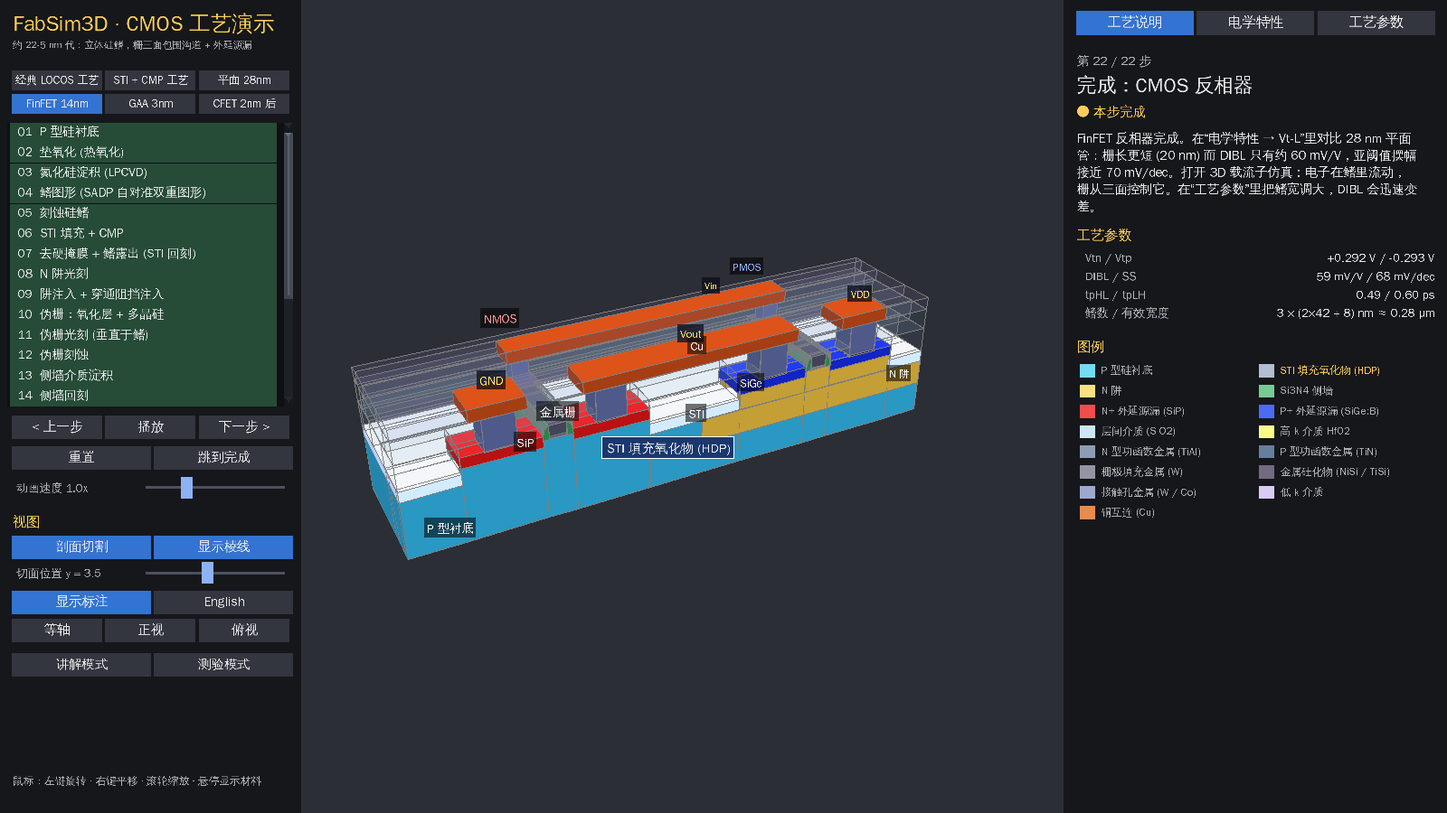
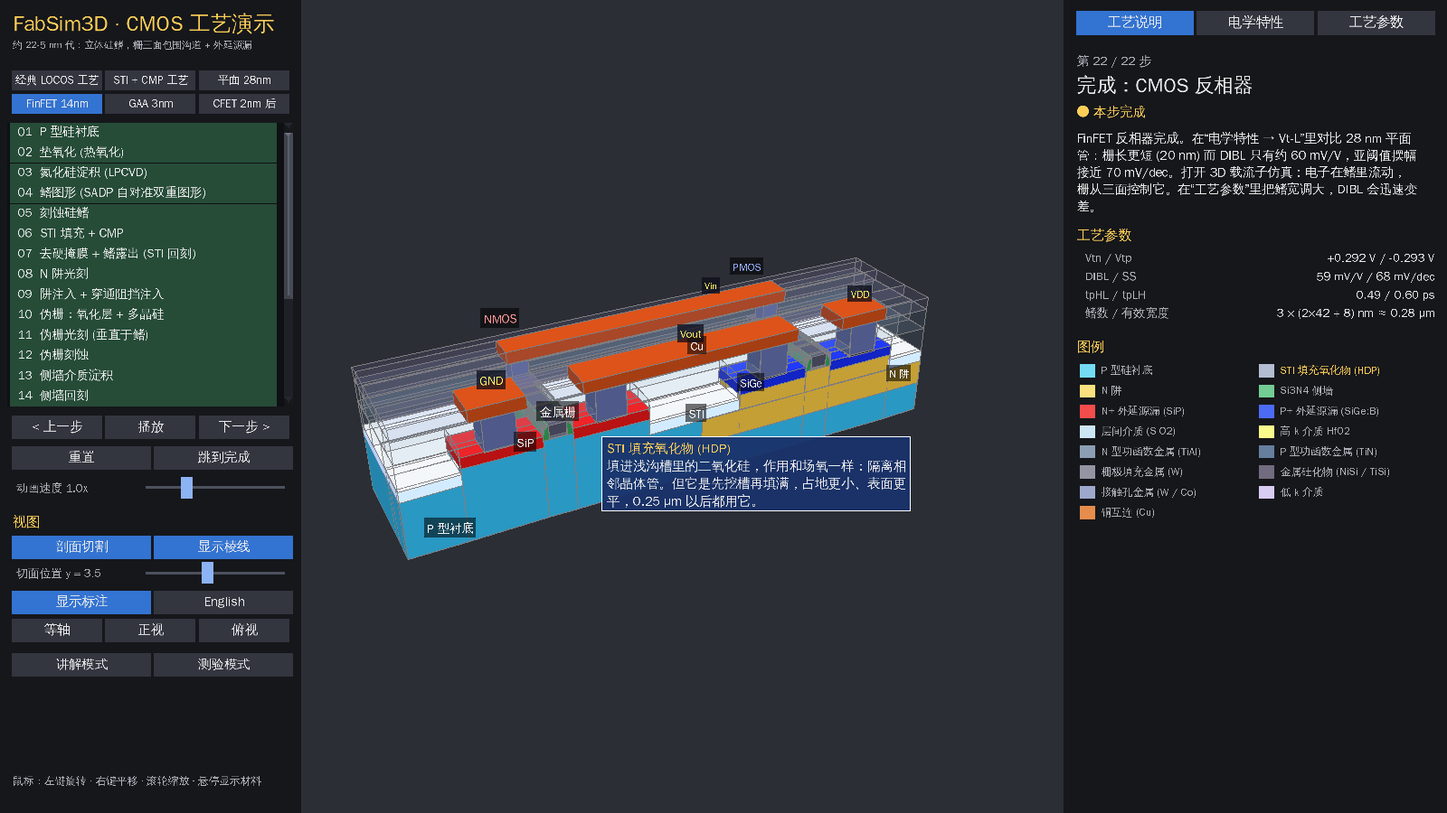
Explain what every material is for in the hover tooltip
The tooltip now shows the material name as a yellow title, followed by a
short beginner-level note on why that layer is in the stack (isolation,
gate insulator, source/drain, wiring...).  The notes live next to the
colours in materials.py, so names, colours and roles stay in one table.
The tooltip flips above the mouse near the bottom edge so longer notes
are not cut off.

Claude-Session: https://claude.ai/code/session_01YUC5rHJGE8Rs6KjAxh5pu7

Changed region(s): [[0.4062, 0.5289, 0.6562, 0.6533]]

diff --git a/fabsim3d/materials.py b/fabsim3d/materials.py
@@ -1,64 +1,217 @@
-"""Material colours, names and draw priority."""
+"""材料表：每种材料的颜色、中英文名字、绘制优先级，以及“它是干什么用的”。
+
+Material colours, names, draw priority and a one-line "what is it for".
+
+整个程序里凡是要画一块材料（衬底、氧化层、金属……），都先到这里查它的颜色；
+鼠标悬停提示框和右侧图例里显示的名字、用途说明也来自这里。
+想改某种材料的颜色或说明，只改这一个文件就行。
+"""
+# dataclass 是 Python 自带的一个小工具：写一个类，只列出“有哪些字段”，
+# Python 会自动帮我们生成创建对象的代码，省得手写一大堆赋值。
 from dataclasses import dataclass
 
 
+# frozen=True 表示对象创建后不能再修改，材料表是固定不变的，这样更安全。
 @dataclass(frozen=True)
 class Material:
-    key: str
-    color: tuple          # rgba 0..1
-    zh: str
-    en: str
-    priority: int = 0     # depth offset for coplanar faces (higher wins)
-    legend: bool = True
+    key: str              # 程序内部用的短名字，例如 "p_sub"，别的代码靠它查材料
+    color: tuple          # 颜色 (红, 绿, 蓝, 不透明度)，每个数都在 0..1 之间；不透明度 < 1 就是半透明
+    zh: str               # 中文名
+    en: str               # 英文名
+    priority: int = 0     # 两块材料的表面正好重合时谁的颜色露出来：数字大的赢（rgba 0..1 / depth offset）
+    legend: bool = True   # 是否显示在右侧“图例”里（仿真用的反型层不显示）
+    role_zh: str = ""     # 中文：这种材料在芯片里起什么作用（悬停提示框里显示）
+    role_en: str = ""     # English: what the material is for (shown in the hover tooltip)
 
 
+# 下面这张大表就是全部材料。每一行的写法：
+#   Material(内部名, 颜色, 中文名, 英文名, 优先级, [是否进图例,] role_zh=用途, role_en=用途)
+# 排列顺序大致就是工艺里出现的先后顺序：先是硅片本身，然后隔离、栅极、源漏，最后是金属导线。
 _M = [
-    Material("p_sub", (0.45, 0.86, 0.95, 1), "P 型硅衬底", "p-type Si substrate", 0),
-    Material("n_implant", (0.95, 0.80, 0.35, 1), "磷注入层(未推进)", "P implant (as-implanted)", 2),
-    Material("n_well", (0.98, 0.88, 0.50, 1), "N 阱", "N-well", 1),
-    Material("pad_ox", (0.80, 0.80, 0.82, 1), "垫氧化层 SiO2", "Pad oxide SiO2", 3),
-    Material("nitride", (0.30, 0.70, 0.40, 1), "氮化硅 Si3N4", "Silicon nitride Si3N4", 3),
-    Material("resist", (0.45, 0.10, 0.45, 1), "光刻胶", "Photoresist", 4),
-    Material("resist_exp", (0.85, 0.55, 0.90, 1), "已曝光光刻胶", "Exposed resist", 4),
-    Material("fox", (0.62, 0.62, 0.66, 1), "场氧化层 (LOCOS)", "Field oxide (LOCOS)", 4),
-    Material("sti_ox", (0.70, 0.74, 0.82, 1), "STI 填充氧化物 (HDP)", "STI fill oxide (HDP)", 4),
-    Material("liner_ox", (0.88, 0.88, 0.92, 1), "衬垫氧化层", "Liner oxide", 5),
-    Material("gate_ox", (0.92, 0.92, 0.95, 1), "栅氧化层", "Gate oxide", 4),
-    Material("poly", (0.80, 0.45, 0.35, 1), "多晶硅", "Polysilicon", 5),
-    Material("poly_n", (0.85, 0.30, 0.30, 1), "N+ 多晶硅栅", "n+ poly gate", 5),
-    Material("poly_p", (0.40, 0.45, 0.90, 1), "P+ 多晶硅栅", "p+ poly gate", 5),
-    Material("n_ldd", (0.98, 0.55, 0.55, 1), "N- LDD 轻掺杂漏", "n- LDD extension", 2),
-    Material("p_ldd", (0.55, 0.65, 1.00, 1), "P- LDD 轻掺杂漏", "p- LDD extension", 2),
-    Material("spacer", (0.45, 0.80, 0.58, 1), "Si3N4 侧墙", "Si3N4 sidewall spacer", 6),
-    Material("n_plus", (0.92, 0.20, 0.20, 1), "N+ 源/漏", "n+ source/drain", 3),
-    Material("p_plus", (0.25, 0.35, 0.95, 1), "P+ 源/漏", "p+ source/drain", 3),
-    Material("ild", (0.80, 0.90, 0.95, 0.30), "层间介质 (BPSG)", "Inter-layer dielectric (BPSG)", 6),
-    Material("metal", (0.70, 0.72, 0.78, 1), "铝金属层", "Aluminium metal", 7),
-    # advanced nodes (HKMG / FinFET / GAA / CFET)
-    Material("poly_dummy", (0.80, 0.55, 0.45, 1), "伪栅多晶硅 (之后去除)", "Dummy poly gate (removed later)", 5),
-    Material("ild_ox", (0.80, 0.90, 0.95, 0.30), "层间介质 (SiO2)", "Inter-layer dielectric (SiO2)", 6),
-    Material("nickel", (0.78, 0.80, 0.82, 1), "镍 (Ni)", "Nickel (Ni)", 6),
-    Material("si_fin", (0.55, 0.90, 0.98, 1), "硅鳍 / 纳米片 (沟道)", "Si fin / nanosheet (channel)", 1),
-    Material("sige", (0.95, 0.62, 0.78, 1), "SiGe 牺牲层", "SiGe sacrificial layer", 2),
-    Material("sige_hi", (0.80, 0.40, 0.65, 1), "高 Ge SiGe (中间隔离牺牲层)", "High-Ge SiGe (isolation placeholder)", 2),
-    Material("mdi_ox", (0.62, 0.86, 0.70, 1), "中间介质隔离 (MDI)", "Middle dielectric isolation (MDI)", 3),
-    Material("hfo2", (0.98, 0.98, 0.55, 1), "高 k 介质 HfO2", "High-k HfO2", 7),
-    Material("wf_n", (0.55, 0.62, 0.70, 1), "N 型功函数金属 (TiAl)", "n work-function metal (TiAl)", 7),
-    Material("wf_p", (0.40, 0.50, 0.62, 1), "P 型功函数金属 (TiN)", "p work-function metal (TiN)", 7),
-    Material("gate_metal", (0.58, 0.58, 0.64, 1), "栅极填充金属 (W)", "Gate fill metal (W)", 6),
-    Material("n_epi", (0.95, 0.30, 0.30, 1), "N+ 外延源漏 (SiP)", "n+ epitaxial S/D (SiP)", 3),
-    Material("p_epi", (0.30, 0.42, 0.95, 1), "P+ 外延源漏 (SiGe:B)", "p+ epitaxial S/D (SiGe:B)", 3),
-    Material("silicide", (0.45, 0.42, 0.50, 1), "金属硅化物 (NiSi / TiSi)", "Silicide (NiSi / TiSi)", 5),
-    Material("plug", (0.62, 0.66, 0.80, 1), "接触孔金属 (W / Co)", "Contact metal (W / Co)", 7),
-    Material("lowk", (0.85, 0.80, 0.95, 0.30), "低 k 介质", "Low-k dielectric", 6),
-    Material("copper", (0.90, 0.55, 0.30, 1), "铜互连 (Cu)", "Copper wiring (Cu)", 8),
-    Material("bs_metal", (0.90, 0.70, 0.30, 1), "背面供电金属", "Backside power metal", 8),
-    Material("channel_n", (0.3, 1.0, 1.0, 0.0), "电子反型层", "Electron inversion layer", 9, False),
-    Material("channel_p", (1.0, 0.6, 0.2, 0.0), "空穴反型层", "Hole inversion layer", 9, False),
+    # ---------------- 地基：硅片和阱 ----------------
+    Material("p_sub", (0.45, 0.86, 0.95, 1), "P 型硅衬底", "p-type Si substrate", 0,
+             role_zh="整颗芯片的地基。掺了少量硼的硅，里面可以自由移动的主要是“空穴”；"
+                     "NMOS 晶体管就直接做在它上面。",
+             role_en="The foundation of the whole chip: silicon lightly doped with boron. "
+                     "NMOS transistors are built directly in it."),
+    Material("n_implant", (0.95, 0.80, 0.35, 1), "磷注入层(未推进)", "P implant (as-implanted)", 2,
+             role_zh="刚用离子注入打进硅里的磷原子，还挤在表面很薄的一层。"
+                     "下一步高温“推进”后它会向深处扩散，变成 N 阱。",
+             role_en="Phosphorus atoms just shot into the surface. A high-temperature drive-in "
+                     "spreads them deeper to form the N-well."),
+    Material("n_well", (0.98, 0.88, 0.50, 1), "N 阱", "N-well", 1,
+             role_zh="在 P 型衬底里“挖”出的一块 N 型区域。PMOS 必须做在 N 型硅上，"
+                     "所以要先做阱，NMOS 和 PMOS 才能做在同一块硅片上（这就是 CMOS 里的 C）。",
+             role_en="An n-type pocket inside the p-type wafer. PMOS needs n-type silicon, so the well "
+                     "lets NMOS and PMOS share one wafer (the 'C' in CMOS)."),
+
+    # ---------------- 隔离：把相邻的晶体管隔开 ----------------
+    Material("pad_ox", (0.80, 0.80, 0.82, 1), "垫氧化层 SiO2", "Pad oxide SiO2", 3,
+             role_zh="一层很薄的二氧化硅“缓冲垫”。氮化硅直接压在硅上应力太大，会把硅表面压出缺陷，"
+                     "所以中间先垫一层。",
+             role_en="A thin SiO2 cushion: nitride straight on silicon is so stressed it damages the "
+                     "surface, so this buffer goes in between."),
+    Material("nitride", (0.30, 0.70, 0.40, 1), "氮化硅 Si3N4", "Silicon nitride Si3N4", 3,
+             role_zh="坚硬的氮化硅，在这里当“盖子”：被它盖住的地方不会被氧化（LOCOS），"
+                     "化学机械抛光磨到它就停下（STI）。用完就去掉。",
+             role_en="Hard nitride used as a lid: it blocks oxidation (LOCOS) and is the stop layer "
+                     "for polishing (STI). Removed afterwards."),
+    Material("resist", (0.45, 0.10, 0.45, 1), "光刻胶", "Photoresist", 4,
+             role_zh="光刻胶，像照相底片：透过掩膜曝光、显影后留下图形。"
+                     "有胶的地方被保护，没胶的地方才会被刻蚀或注入。用完洗掉。",
+             role_en="Light-sensitive film, like photo film. After exposure and development it "
+                     "protects some areas so etching or implanting only hits the open ones."),
+    Material("resist_exp", (0.85, 0.55, 0.90, 1), "已曝光光刻胶", "Exposed resist", 4,
+             role_zh="刚被紫外光照过的那部分光刻胶，性质变了，显影时会被洗掉，露出下面的材料。",
+             role_en="Resist that has just been hit by UV light; the developer washes it away."),
+    Material("fox", (0.62, 0.62, 0.66, 1), "场氧化层 (LOCOS)", "Field oxide (LOCOS)", 4,
+             role_zh="很厚的二氧化硅“围墙”，把相邻的晶体管电隔离开，防止电流从一个管子漏到另一个。"
+                     "老工艺用局部氧化（LOCOS）长出来，边缘会形成“鸟嘴”。",
+             role_en="Thick oxide walls that electrically isolate neighbouring transistors. Grown by "
+                     "local oxidation; its edges form the 'bird's beak'."),
+    Material("sti_ox", (0.70, 0.74, 0.82, 1), "STI 填充氧化物 (HDP)", "STI fill oxide (HDP)", 4,
+             role_zh="填进浅沟槽里的二氧化硅，作用和场氧一样：隔离相邻晶体管。"
+                     "但它是先挖槽再填满，占地更小、表面更平，0.25 µm 以后都用它。",
+             role_en="Oxide filling shallow trenches. Same job as field oxide (isolation) but smaller "
+                     "and flatter; used from 0.25 µm on."),
+    Material("liner_ox", (0.88, 0.88, 0.92, 1), "衬垫氧化层", "Liner oxide", 5,
+             role_zh="沟槽挖好后先在槽壁上长的一层薄氧化层：修复刻蚀造成的损伤、把尖角变圆，"
+                     "减少漏电。",
+             role_en="Thin oxide grown on the trench walls first: heals etch damage and rounds the "
+                     "corners to cut leakage."),
+
+    # ---------------- 栅极：晶体管的“开关把手” ----------------
+    Material("gate_ox", (0.92, 0.92, 0.95, 1), "栅氧化层", "Gate oxide", 4,
+             role_zh="栅极下面极薄的绝缘层。栅极电压隔着它把电荷“吸”到硅表面形成沟道，"
+                     "但电流本身不能穿过它。越薄，栅极的控制力越强。",
+             role_en="Very thin insulator under the gate. The gate voltage pulls charge to the surface "
+                     "through it without current flowing; thinner means stronger control."),
+    Material("poly", (0.80, 0.45, 0.35, 1), "多晶硅", "Polysilicon", 5,
+             role_zh="多晶硅，用来做栅极的导电材料。栅极加电压就能打开或关断下面的沟道。",
+             role_en="Polycrystalline silicon, the conductor the gate is made of."),
+    Material("poly_n", (0.85, 0.30, 0.30, 1), "N+ 多晶硅栅", "n+ poly gate", 5,
+             role_zh="掺了大量磷的多晶硅栅，用在 NMOS 上。栅的掺杂类型会影响晶体管在多大电压下打开（阈值电压）。",
+             role_en="Heavily n-doped poly gate for the NMOS; the doping sets the threshold voltage."),
+    Material("poly_p", (0.40, 0.45, 0.90, 1), "P+ 多晶硅栅", "p+ poly gate", 5,
+             role_zh="掺了大量硼的多晶硅栅，用在 PMOS 上，作用同 N+ 多晶硅栅。",
+             role_en="Heavily p-doped poly gate for the PMOS."),
+
+    # ---------------- 源和漏：电流的入口和出口 ----------------
+    Material("n_ldd", (0.98, 0.55, 0.55, 1), "N- LDD 轻掺杂漏", "n- LDD extension", 2,
+             role_zh="紧挨着沟道的一小段浅而淡的 N 型区。它让漏极附近的电场变缓，"
+                     "减少高速电子撞坏栅氧（热载流子效应）。",
+             role_en="A shallow, light n-region right next to the channel. It softens the electric field "
+                     "near the drain so fast electrons do not damage the gate oxide."),
+    Material("p_ldd", (0.55, 0.65, 1.00, 1), "P- LDD 轻掺杂漏", "p- LDD extension", 2,
+             role_zh="PMOS 的轻掺杂漏，作用同 N- LDD。",
+             role_en="The PMOS version of the LDD extension."),
+    Material("spacer", (0.45, 0.80, 0.58, 1), "Si3N4 侧墙", "Si3N4 sidewall spacer", 6,
+             role_zh="贴在栅极两侧的氮化硅“小墙”。后面的重掺杂注入会被它挡住，"
+                     "于是重掺杂区自动离沟道远一点，中间留出 LDD（不用额外掩膜，叫“自对准”）。",
+             role_en="Nitride walls on both sides of the gate. They block the heavy S/D implant so it "
+                     "lands a little away from the channel, leaving room for the LDD (self-aligned)."),
+    Material("n_plus", (0.92, 0.20, 0.20, 1), "N+ 源/漏", "n+ source/drain", 3,
+             role_zh="重掺杂的 N 型区：NMOS 的源极和漏极。电子从源极进、经沟道、从漏极出。",
+             role_en="Heavily doped n-regions: the NMOS source and drain, where current enters and leaves."),
+    Material("p_plus", (0.25, 0.35, 0.95, 1), "P+ 源/漏", "p+ source/drain", 3,
+             role_zh="重掺杂的 P 型区：PMOS 的源极和漏极，这里流动的是空穴。",
+             role_en="Heavily doped p-regions: the PMOS source and drain (holes carry the current)."),
+
+    # ---------------- 连线：把晶体管接成电路 ----------------
+    Material("ild", (0.80, 0.90, 0.95, 0.30), "层间介质 (BPSG)", "Inter-layer dielectric (BPSG)", 6,
+             role_zh="盖在晶体管上面的绝缘层，把下面的器件和上面的金属线隔开，"
+                     "只有在开了接触孔的地方才连通。画成半透明是为了能看到下面。",
+             role_en="Insulating blanket between the transistors and the metal above; they only connect "
+                     "where contact holes are opened. Drawn see-through."),
+    Material("metal", (0.70, 0.72, 0.78, 1), "铝金属层", "Aluminium metal", 7,
+             role_zh="铝导线，把晶体管和电源 VDD、地 GND、输入、输出连起来，组成反相器电路。",
+             role_en="Aluminium wires connecting the transistors to VDD, GND, input and output."),
+
+    # ---------------- 先进工艺（HKMG / FinFET / GAA / CFET）新增的材料 ----------------
+    Material("poly_dummy", (0.80, 0.55, 0.45, 1), "伪栅多晶硅 (之后去除)", "Dummy poly gate (removed later)", 5,
+             role_zh="先放一个“假”的多晶硅栅占住位置，等高温步骤都做完再把它挖掉，换成真正的金属栅"
+                     "（后栅工艺）。因为金属栅怕高温。",
+             role_en="A placeholder gate. After all hot steps are done it is dug out and replaced by the "
+                     "real metal gate, which cannot take the heat (gate-last)."),
+    Material("ild_ox", (0.80, 0.90, 0.95, 0.30), "层间介质 (SiO2)", "Inter-layer dielectric (SiO2)", 6,
+             role_zh="二氧化硅绝缘层，把器件和上面的导线隔开，只在接触孔处连通。画成半透明。",
+             role_en="Oxide blanket isolating devices from the wiring above, except at contacts."),
+    Material("nickel", (0.78, 0.80, 0.82, 1), "镍 (Ni)", "Nickel (Ni)", 6,
+             role_zh="镀上去的一层镍。加热后和下面的硅反应生成导电很好的硅化物，没反应的镍再洗掉。",
+             role_en="Nickel film: heated, it reacts with the silicon below into silicide; the rest is "
+                     "washed off."),
+    Material("si_fin", (0.55, 0.90, 0.98, 1), "硅鳍 / 纳米片 (沟道)", "Si fin / nanosheet (channel)", 1,
+             role_zh="电流真正流过的硅（沟道）。做成立起来的“鳍”或叠起来的薄片，"
+                     "让栅极能从三面甚至四面包住它，晶体管更小也关得住。",
+             role_en="The silicon the current actually flows through, shaped as an upright fin or stacked "
+                     "sheets so the gate can wrap it on three or four sides."),
+    Material("sige", (0.95, 0.62, 0.78, 1), "SiGe 牺牲层", "SiGe sacrificial layer", 2,
+             role_zh="和硅交替堆叠的锗硅层，只是临时“占位”：最后被选择性刻掉，"
+                     "让硅纳米片悬空，栅极才能把每一片都包住。",
+             role_en="SiGe layers stacked between the silicon sheets as placeholders; selectively etched "
+                     "away so the gate can wrap every sheet."),
+    Material("sige_hi", (0.80, 0.40, 0.65, 1), "高 Ge SiGe (中间隔离牺牲层)", "High-Ge SiGe (isolation placeholder)", 2,
+             role_zh="锗含量更高的锗硅，可以比普通 SiGe 更早被刻掉；空出来的位置填上绝缘介质，"
+                     "把上下叠着的两个晶体管隔开（CFET）。",
+             role_en="Higher-Ge SiGe that etches first; the gap it leaves is filled with dielectric to "
+                     "separate the stacked top and bottom transistors (CFET)."),
+    Material("mdi_ox", (0.62, 0.86, 0.70, 1), "中间介质隔离 (MDI)", "Middle dielectric isolation (MDI)", 3,
+             role_zh="CFET 里夹在上层 PMOS 和下层 NMOS 之间的绝缘层，把它们电隔离开。",
+             role_en="Insulator between the stacked PMOS (top) and NMOS (bottom) in a CFET."),
+    Material("hfo2", (0.98, 0.98, 0.55, 1), "高 k 介质 HfO2", "High-k HfO2", 7,
+             role_zh="取代二氧化硅的栅绝缘层。它“k 值高”：物理上可以做得厚一些（漏电小），"
+                     "对栅极控制力的效果却相当于很薄的二氧化硅。",
+             role_en="Replaces SiO2 as gate insulator: physically thicker (less leakage) but electrically "
+                     "acts like a very thin oxide."),
+    Material("wf_n", (0.55, 0.62, 0.70, 1), "N 型功函数金属 (TiAl)", "n work-function metal (TiAl)", 7,
+             role_zh="薄薄一层特定金属，它的“功函数”决定 NMOS 在多大栅压下打开（阈值电压）。",
+             role_en="A thin metal whose work function sets the NMOS turn-on (threshold) voltage."),
+    Material("wf_p", (0.40, 0.50, 0.62, 1), "P 型功函数金属 (TiN)", "p work-function metal (TiN)", 7,
+             role_zh="作用同上，但用于 PMOS，决定 PMOS 的阈值电压。",
+             role_en="Same idea for the PMOS: sets its threshold voltage."),
+    Material("gate_metal", (0.58, 0.58, 0.64, 1), "栅极填充金属 (W)", "Gate fill metal (W)", 6,
+             role_zh="钨，把栅极沟槽剩下的空间填满，降低栅极的电阻。",
+             role_en="Tungsten filling the rest of the gate trench to lower gate resistance."),
+    Material("n_epi", (0.95, 0.30, 0.30, 1), "N+ 外延源漏 (SiP)", "n+ epitaxial S/D (SiP)", 3,
+             role_zh="在源漏位置“长”出来的含磷硅：电阻低，还会拉伸沟道，让电子跑得更快。",
+             role_en="Phosphorus-rich silicon grown at the S/D: low resistance, and it stretches the "
+                     "channel so electrons move faster."),
+    Material("p_epi", (0.30, 0.42, 0.95, 1), "P+ 外延源漏 (SiGe:B)", "p+ epitaxial S/D (SiGe:B)", 3,
+             role_zh="在 PMOS 源漏长出的掺硼锗硅：电阻低，还会挤压沟道，让空穴跑得更快（应变硅）。",
+             role_en="Boron-doped SiGe grown at the PMOS S/D: squeezes the channel so holes move faster "
+                     "(strained silicon)."),
+    Material("silicide", (0.45, 0.42, 0.50, 1), "金属硅化物 (NiSi / TiSi)", "Silicide (NiSi / TiSi)", 5,
+             role_zh="金属和硅的化合物，导电好。垫在源漏或栅与接触孔之间，降低接触电阻。",
+             role_en="Metal-silicon compound that conducts well; sits between S/D or gate and the contact "
+                     "to cut contact resistance."),
+    Material("plug", (0.62, 0.66, 0.80, 1), "接触孔金属 (W / Co)", "Contact metal (W / Co)", 7,
+             role_zh="填在接触孔里的金属“柱子”（钨或钴），竖着穿过绝缘层，把下面的源漏或栅接到上面的导线。",
+             role_en="Metal posts (W or Co) through the insulator, connecting S/D or gate to the wires above."),
+    Material("lowk", (0.85, 0.80, 0.95, 0.30), "低 k 介质", "Low-k dielectric", 6,
+             role_zh="比二氧化硅介电常数更低的绝缘层，减小相邻导线之间的寄生电容，信号跑得更快、更省电。"
+                     "画成半透明。",
+             role_en="Insulator with lower permittivity than SiO2: less capacitance between wires, so "
+                     "signals are faster and use less power."),
+    Material("copper", (0.90, 0.55, 0.30, 1), "铜互连 (Cu)", "Copper wiring (Cu)", 8,
+             role_zh="铜导线，电阻比铝小，现代芯片都用铜做连线。",
+             role_en="Copper wires; lower resistance than aluminium, used in all modern chips."),
+    Material("bs_metal", (0.90, 0.70, 0.30, 1), "背面供电金属", "Backside power metal", 8,
+             role_zh="从晶圆背面走的电源线。正面留给信号线，布线不再拥挤，电源压降也更小。",
+             role_en="Power lines routed on the back of the wafer, leaving the front for signals."),
+
+    # ---------------- 仿真时才出现的“反型层”（不进图例） ----------------
+    Material("channel_n", (0.3, 1.0, 1.0, 0.0), "电子反型层", "Electron inversion layer", 9, False,
+             role_zh="NMOS 打开时栅极下面聚集的一薄层电子，就是导电的沟道。",
+             role_en="The thin sheet of electrons under the NMOS gate when it is on: the channel."),
+    Material("channel_p", (1.0, 0.6, 0.2, 0.0), "空穴反型层", "Hole inversion layer", 9, False,
+             role_zh="PMOS 打开时栅极下面聚集的一薄层空穴。",
+             role_en="The thin sheet of holes under the PMOS gate when it is on."),
 ]
 
+# 把列表转成“字典”：用内部名就能直接查到材料，例如 MATERIALS["p_sub"]
 MATERIALS = {m.key: m for m in _M}
 
 
 def mat(key: str) -> Material:
+    """按内部名取材料，例如 mat("poly").color 就是多晶硅的颜色。"""
     return MATERIALS[key]

diff --git a/fabsim3d/app.py b/fabsim3d/app.py
@@ -12,7 +12,7 @@ from direct.gui.OnscreenImage import OnscreenImage
 from direct.gui.OnscreenText import OnscreenText
 from direct.showbase.ShowBase import ShowBase
 from panda3d.core import (AmbientLight, DirectionalLight, Filename, Point2, Point3, TextNode,
-                          Texture, TransparencyAttrib, Vec3)
+                          TextProperties, TextPropertiesManager, Texture, TransparencyAttrib, Vec3)
 
 from . import i18n
 from .device_model import ProcessParams, inverter_vout, nmos, pmos
@@ -105,6 +105,11 @@ class CmosApp(GuideMixin, ShowBase):
         self.hover_tip.setScale(0.032)
         self.hover_tip.setBin("gui-popup", 60)
         self.hover_tip.hide()
+        # 提示框第一行（材料名）用黄色：TextNode 支持在文字里用 \1名字\1 ... \2 切换样式，
+        # 这里先登记一个叫 "hov_title" 的样式 / a yellow style for the tooltip title
+        title_style = TextProperties()
+        title_style.setTextColor(*ACCENT)
+        TextPropertiesManager.getGlobalPtr().setProperties("hov_title", title_style)
 
         # process state
         self.step = 0
@@ -279,18 +284,30 @@ class CmosApp(GuideMixin, ShowBase):
             self.hover_tip.hide()
             return
         m_ = mat(main[2])
-        lines = [i18n.pick(m_.zh, m_.en)]
+        # 第一行：黄色的材料名 / line 1: material name in yellow
+        lines = ["\1hov_title\1" + i18n.pick(m_.zh, m_.en) + "\2"]
+        # 第二行（可选）：鼠标和这层之间隔着的半透明层 / translucent layers in front of it
         above = [i18n.pick(mat(h[2]).zh, mat(h[2]).en) for h in hits[:hits.index(main)]]
         if above:
             lines.append(tr("hover_through", m="、".join(above) if i18n.LANG == "zh" else ", ".join(above)))
+        # 后面几行：这种材料是干什么用的，按宽度自动换行 / what it is for, wrapped
+        role = i18n.pick(m_.role_zh, m_.role_en)
+        if role:
+            lines.append(self.wrap(role, 0.78, 0.032))
         tn = self.hover_tip.node()
         tn.setText("\n".join(lines))
+        # 放在鼠标右下方；靠近视图右边缘就改放左边，靠近底部就改放上方，免得被挡住
+        # place it below-right of the mouse, flipping left / up near the view edges
         mp = self.mouseWatcherNode.getMouse()
         x = mp.x * self.getAspectRatio()
         w = tn.getWidth() * 0.032
+        h = tn.getHeight() * 0.032
         right_edge = (self.view_frac[1] * 2 - 1) * self.getAspectRatio()
         x = x + 0.03 if x + 0.03 + w < right_edge - 0.02 else x - 0.03 - w
-        self.hover_tip.setPos(x, 0, mp.y - 0.06)
+        y = mp.y - 0.06
+        if y - h < -0.97:
+            y = mp.y + 0.04 + h - tn.getLineHeight() * 0.032
+        self.hover_tip.setPos(x, 0, y)
         self.hover_tip.show()
 
     def _refresh_legend_hover(self):

diff --git a/tests/test_process_flow.py b/tests/test_process_flow.py
@@ -231,3 +231,9 @@ def test_ray_enter_prism():
     tri = Solid([(0, 0), (2, 0), (1, 2)], 0, 1)                           # clockwise works too
     assert tri.ray_enter((1.5, 0.5, 5), (0, 0, -1)) == pytest.approx(4)
     assert Solid(tri.poly[::-1], 0, 1).ray_enter((1.5, 0.5, 5), (0, 0, -1)) == pytest.approx(4)
+
+
+def test_every_material_explains_its_role():
+    from fabsim3d.materials import MATERIALS
+    for m in MATERIALS.values():
+        assert m.role_zh and m.role_en, m.key
